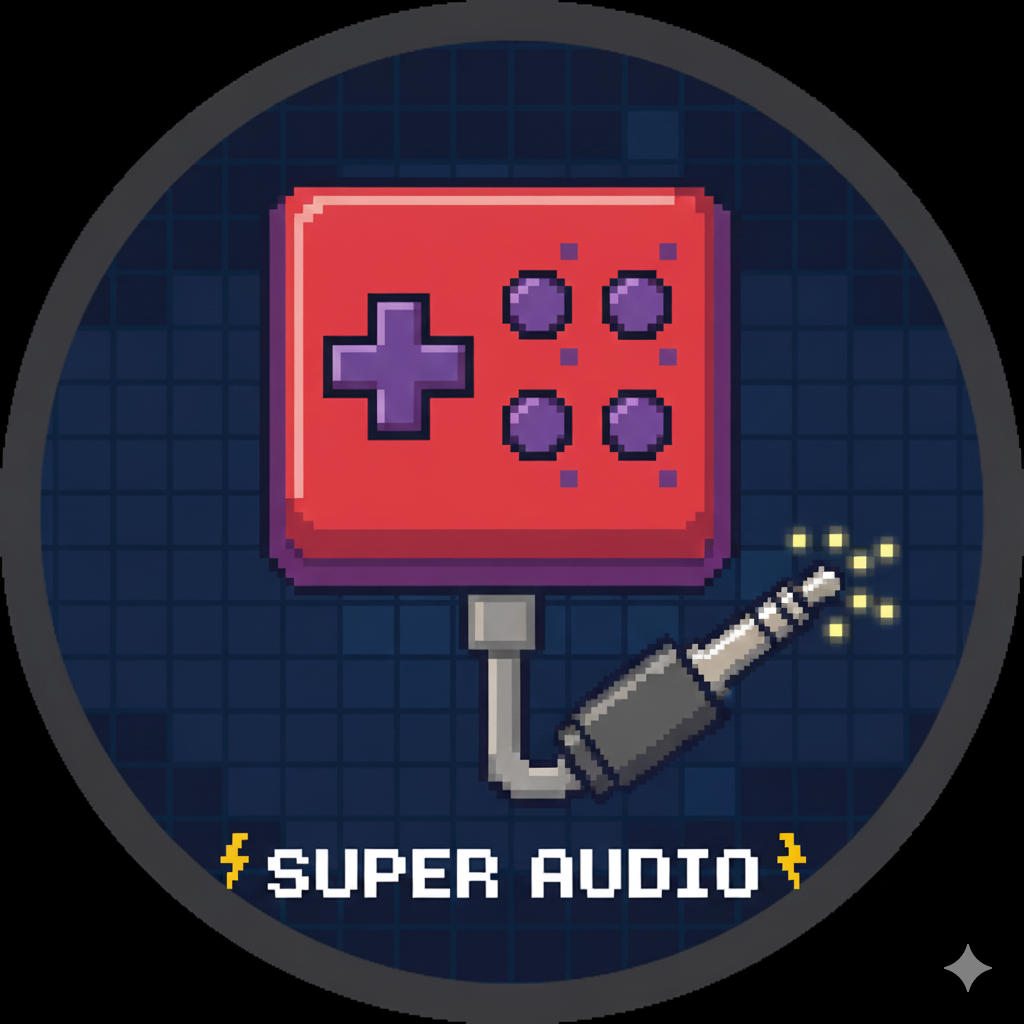
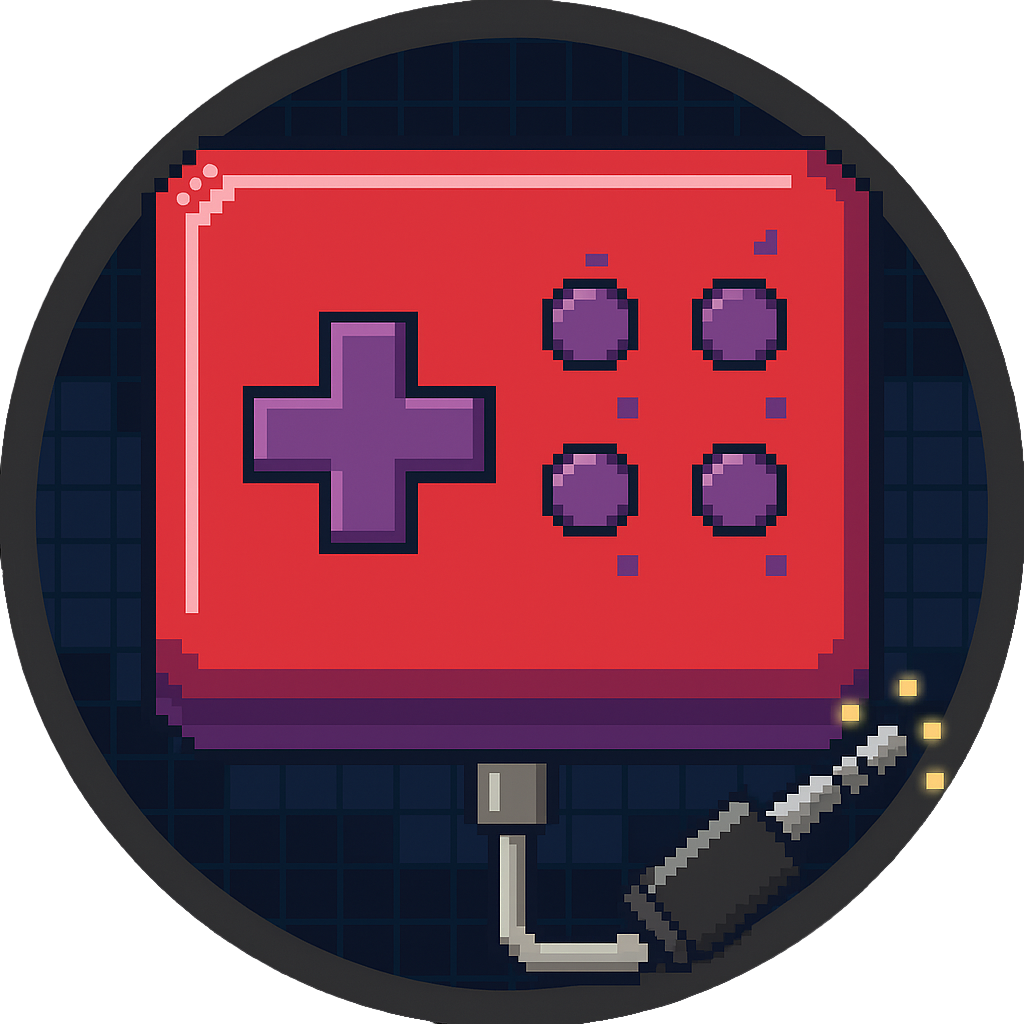
tweak

diff --git a/8BitdoSuperButton/Program.cs b/8BitdoSuperButton/Program.cs
@@ -34,7 +34,7 @@ namespace _8BitdoSuperButton
 
             trayIcon = new NotifyIcon()
             {
-                Icon = SystemIcons.Application,
+                Icon = new Icon("icon.ico"),
                 ContextMenu = new ContextMenu(new MenuItem[] {
                     enableDisableMenuItem,
                     new MenuItem("Settings", OnSettings),
@@ -43,6 +43,11 @@ namespace _8BitdoSuperButton
                 Visible = true,
                 Text = "8BitdoSuperButton"
             };
+
+            if (Properties.Settings.Default.Enabled)
+            {
+                audioMonitor.Start();
+            }
         }
 
         private void OnToggleMonitoring(object sender, EventArgs e)
